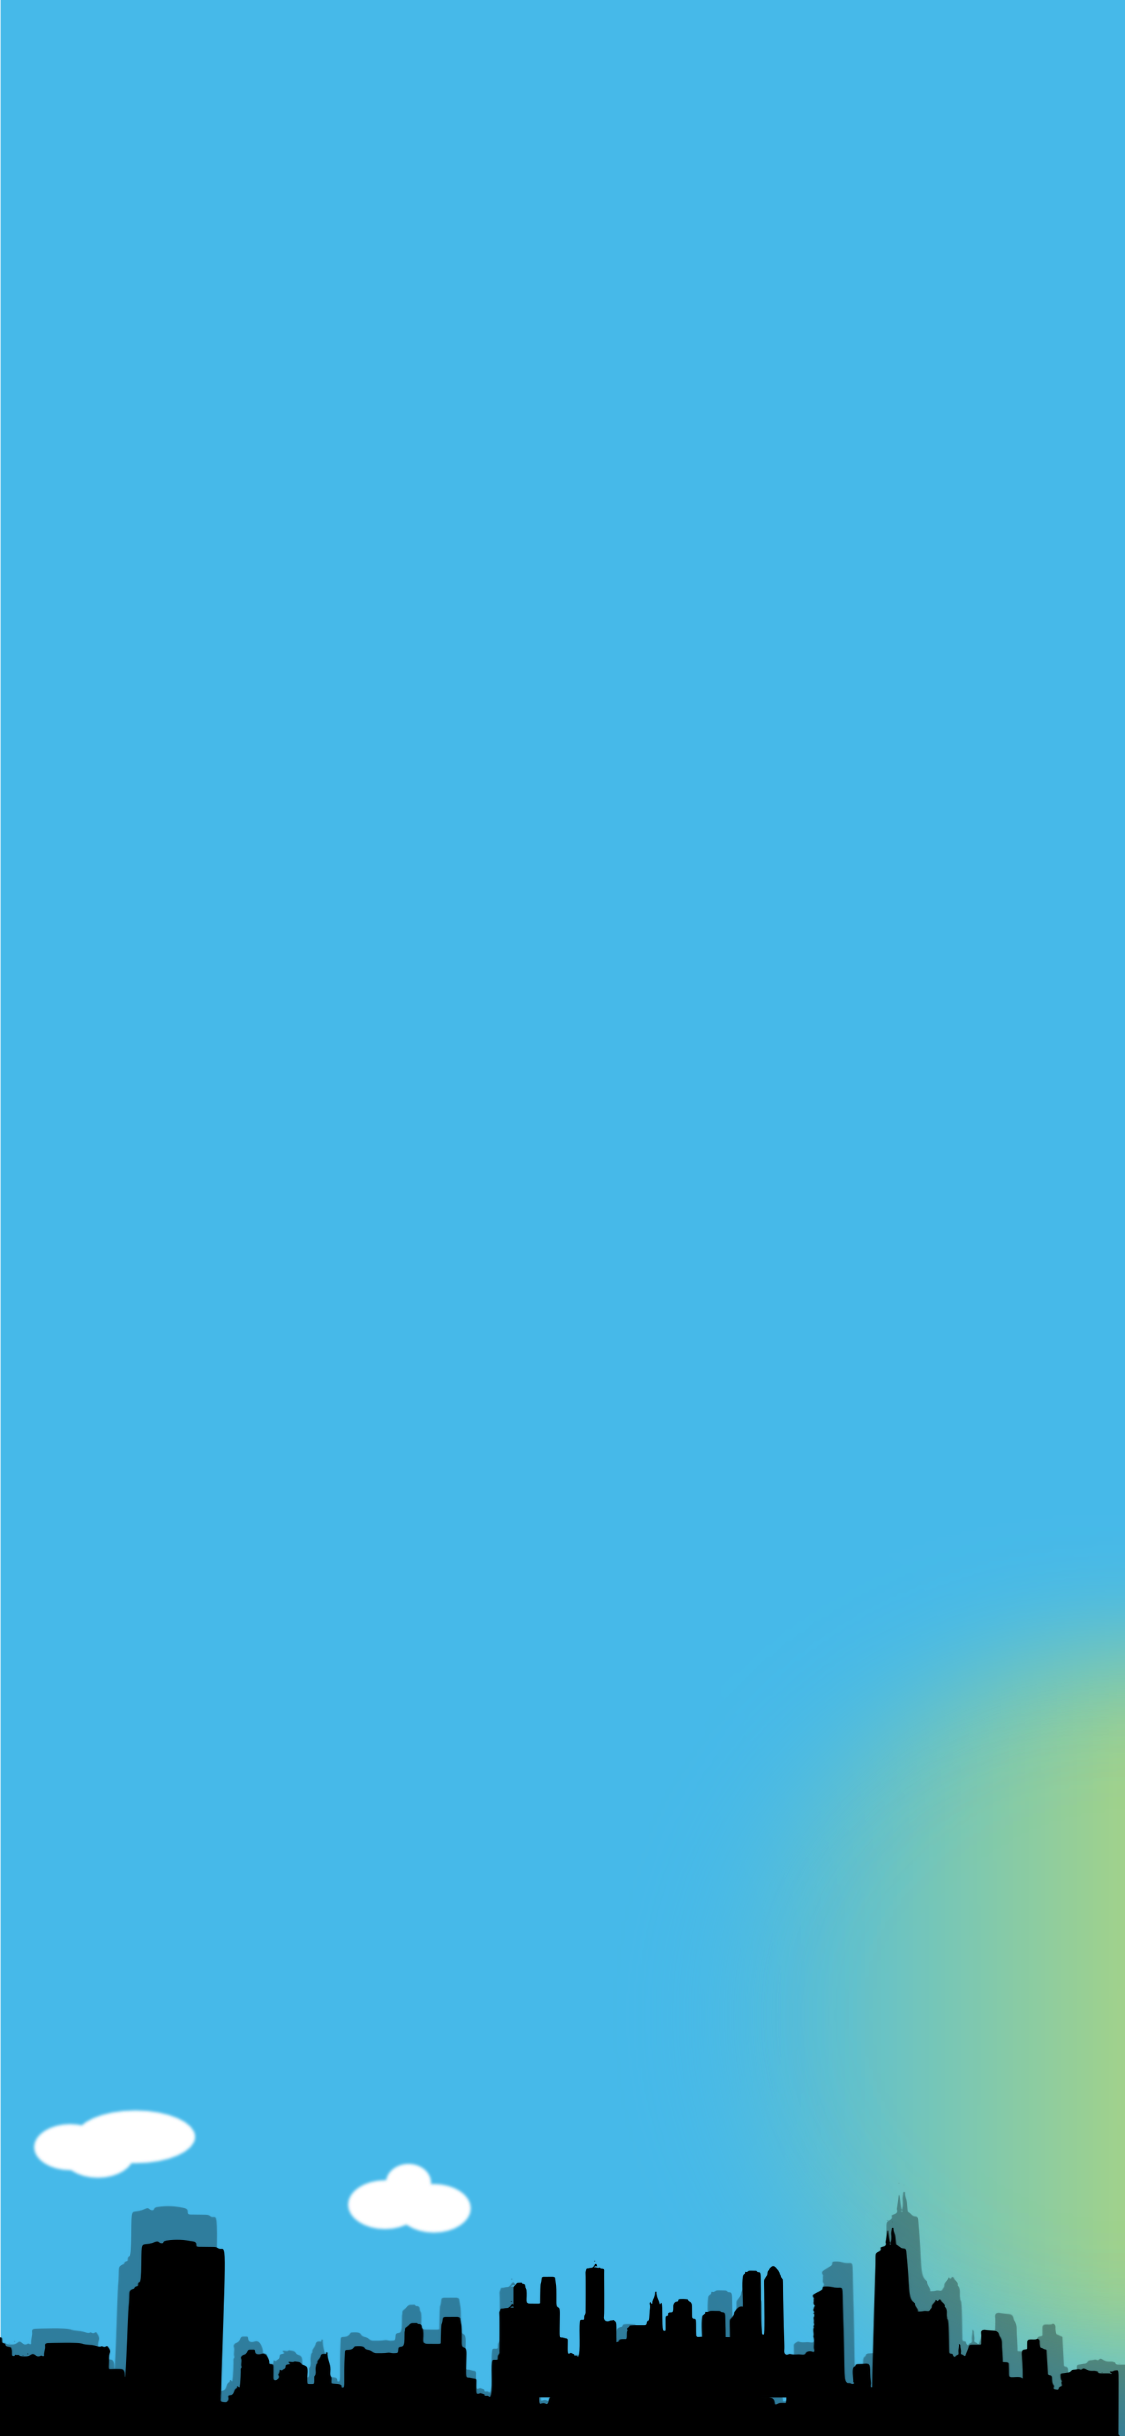
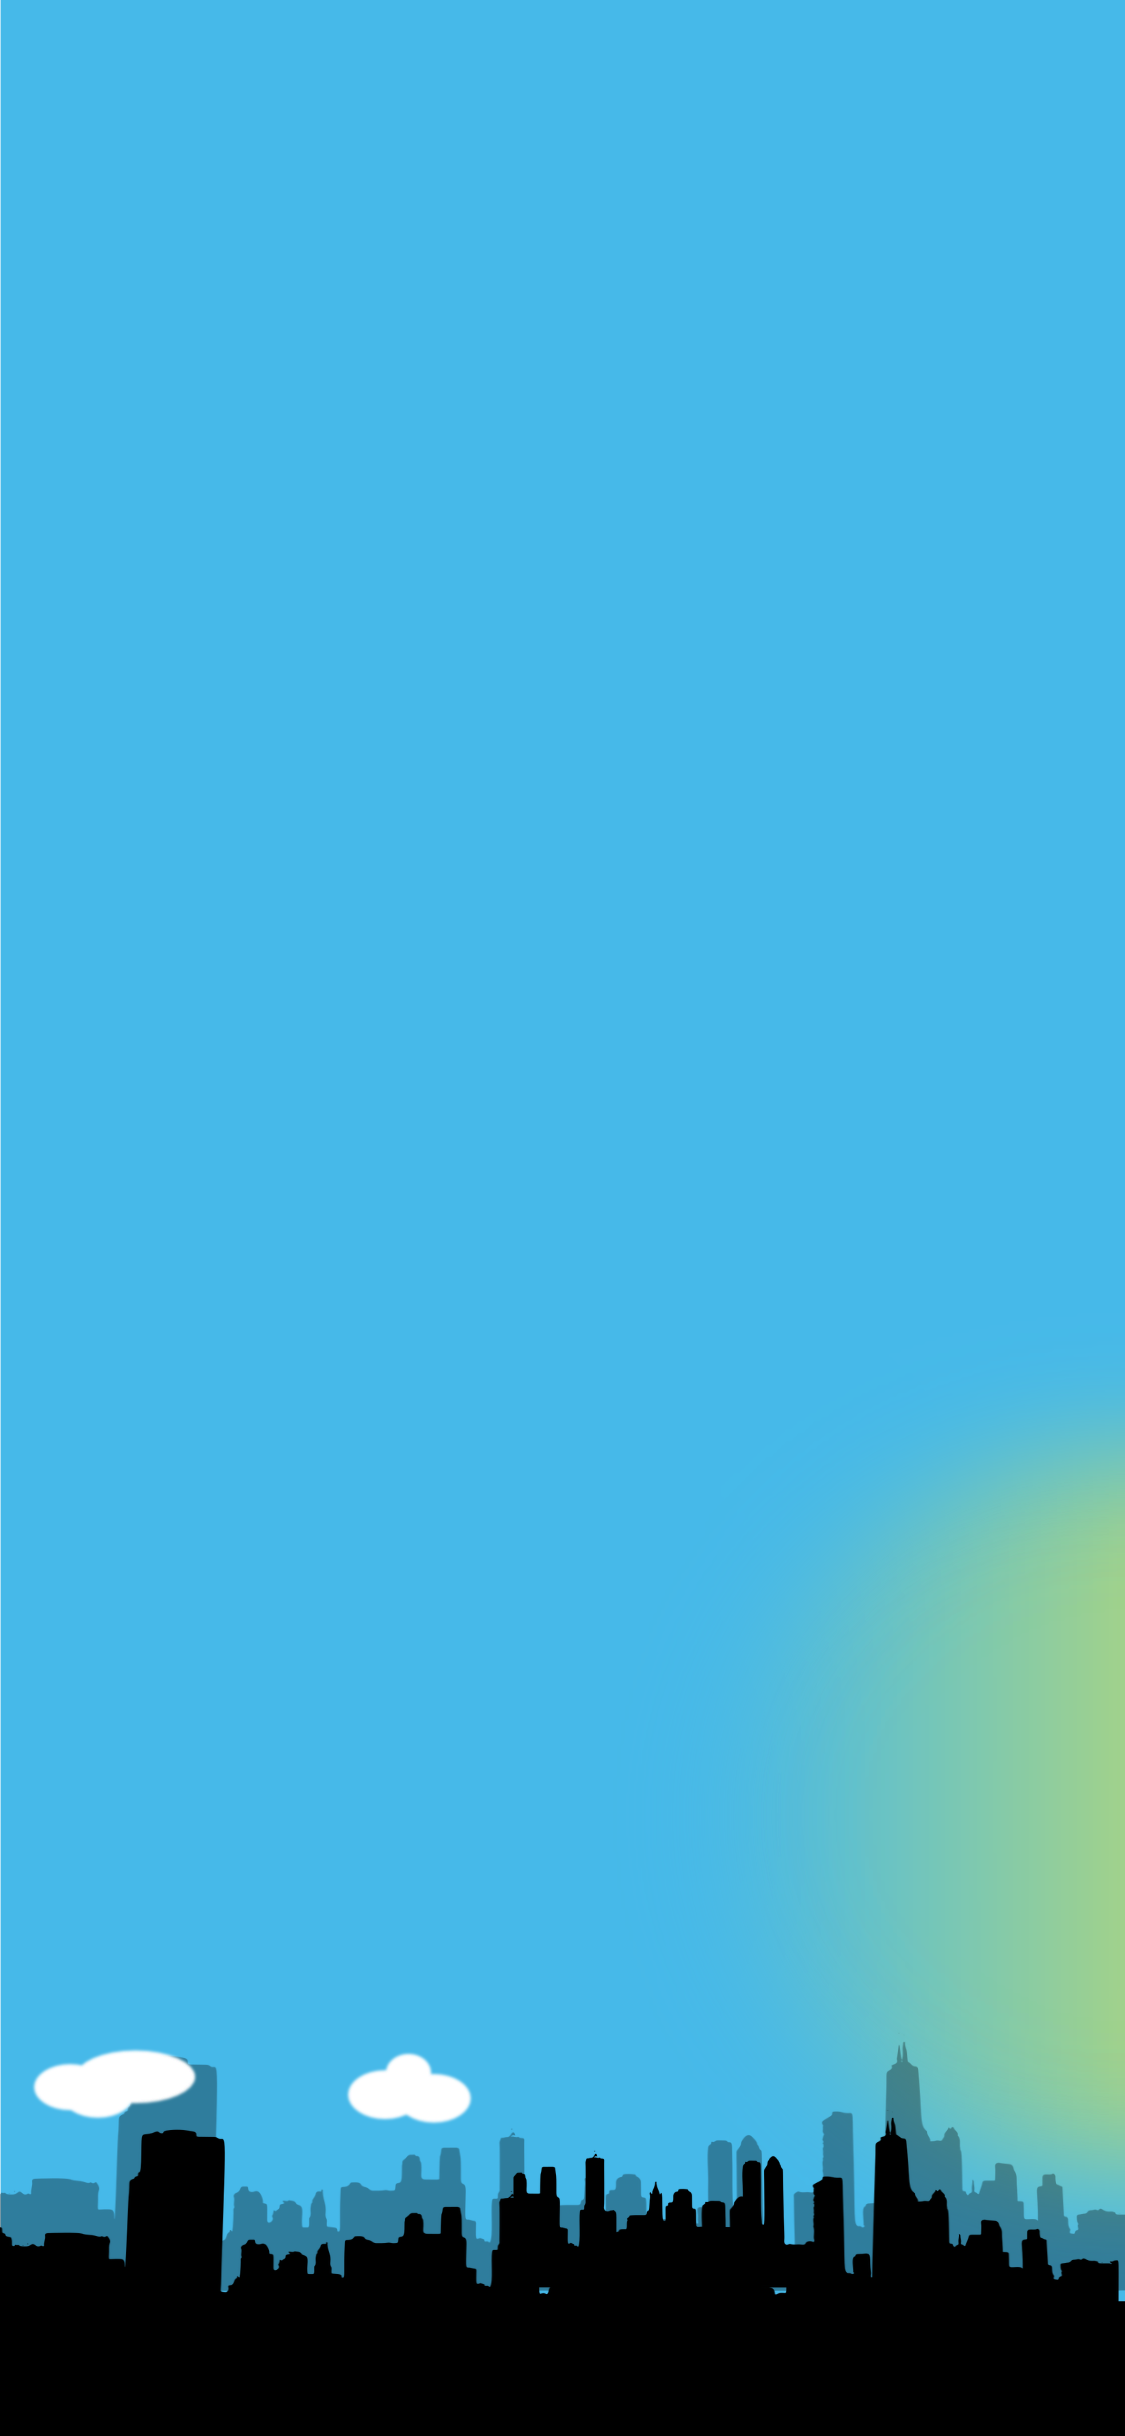
modification
image

Changed region(s): [[0.0, 0.8424, 1.0, 1.0], [0.7467, 0.5616, 1.0, 0.7176]]

diff --git a/lib/Controleurs/homepage/HomePageState.dart b/lib/Controleurs/homepage/HomePageState.dart
@@ -43,27 +43,33 @@ class HomePageState extends State<HomePage>
           //    Expanded(child:
           Container(
             height: MediaQuery.of(context).size.height,
-              width: MediaQuery.of(context).size.width,
+            width: MediaQuery.of(context).size.width,
               color: Color(0xFF49B9E9),
                   child:Stack
                     (
                     alignment: Alignment.bottomCenter,
                     children:
                     [
-                      Image.asset(
+                      Positioned(
+                      top: 0,
+                      width: MediaQuery.of(context).size.width,
+                      height: MediaQuery.of(context).size.height,
+                       child:Image.asset(
                         'images/fond_homepage.png',
                         width: MediaQuery.of(context).size.width,
                         height: MediaQuery.of(context).size.height,
-                        fit: BoxFit.fill,
+                        fit: BoxFit.fitWidth,
                       ),
-                      widgetCurrentPage,
+                      ),
+                      Positioned(
+                        top: 0,
+                          width: MediaQuery.of(context).size.width,
+                          height: MediaQuery.of(context).size.height-100,
+                          child:widgetCurrentPage),
                       MyNavigationBar(_onItemTapped)
                     ]
                   )
-          ),
-             // ),
-
-            ],
+              )]
           )
       )
   );

diff --git a/lib/Vues/MyInfoGenerale.dart b/lib/Vues/MyInfoGenerale.dart
@@ -15,7 +15,7 @@ class MyInfoGenerale extends StatelessWidget
     print("MyInfoGenerale::lapolice:"+(Theme.of(parentContext).textTheme.headline1.fontFamily));
     return
     Container(
-      //height: 500,
+      height: MediaQuery.of(context).size.height-80,
 
       margin: EdgeInsets.all(30),
       decoration: BoxDecoration(
